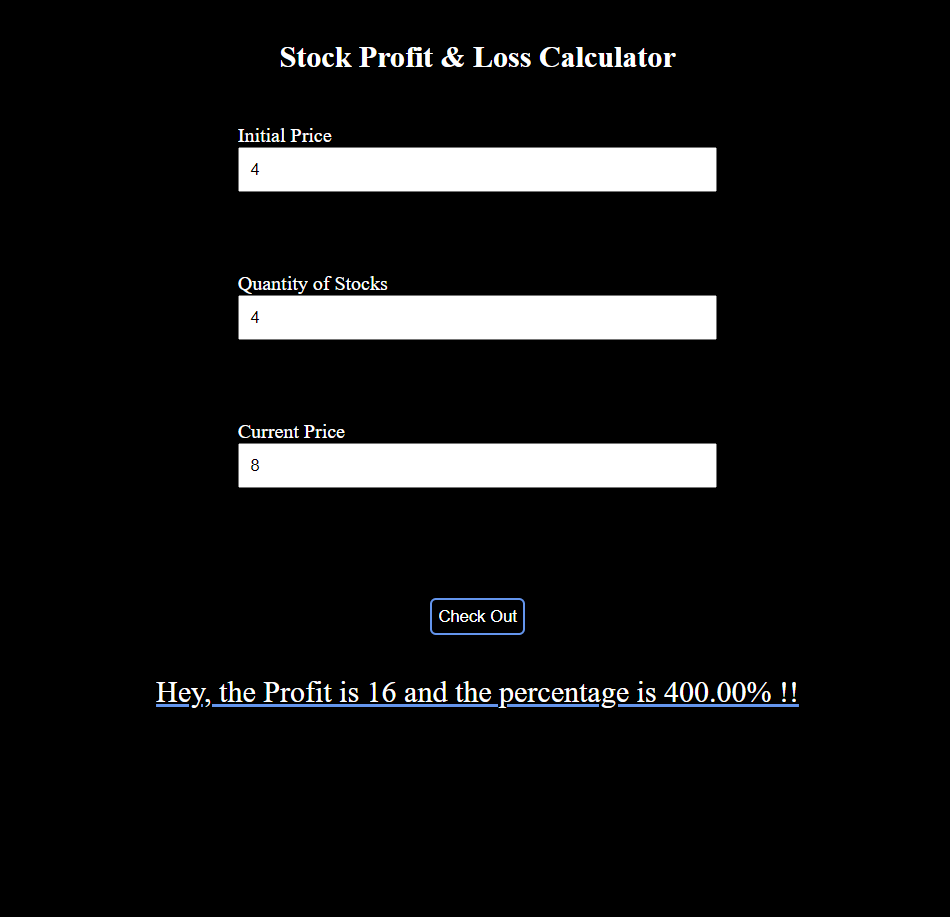
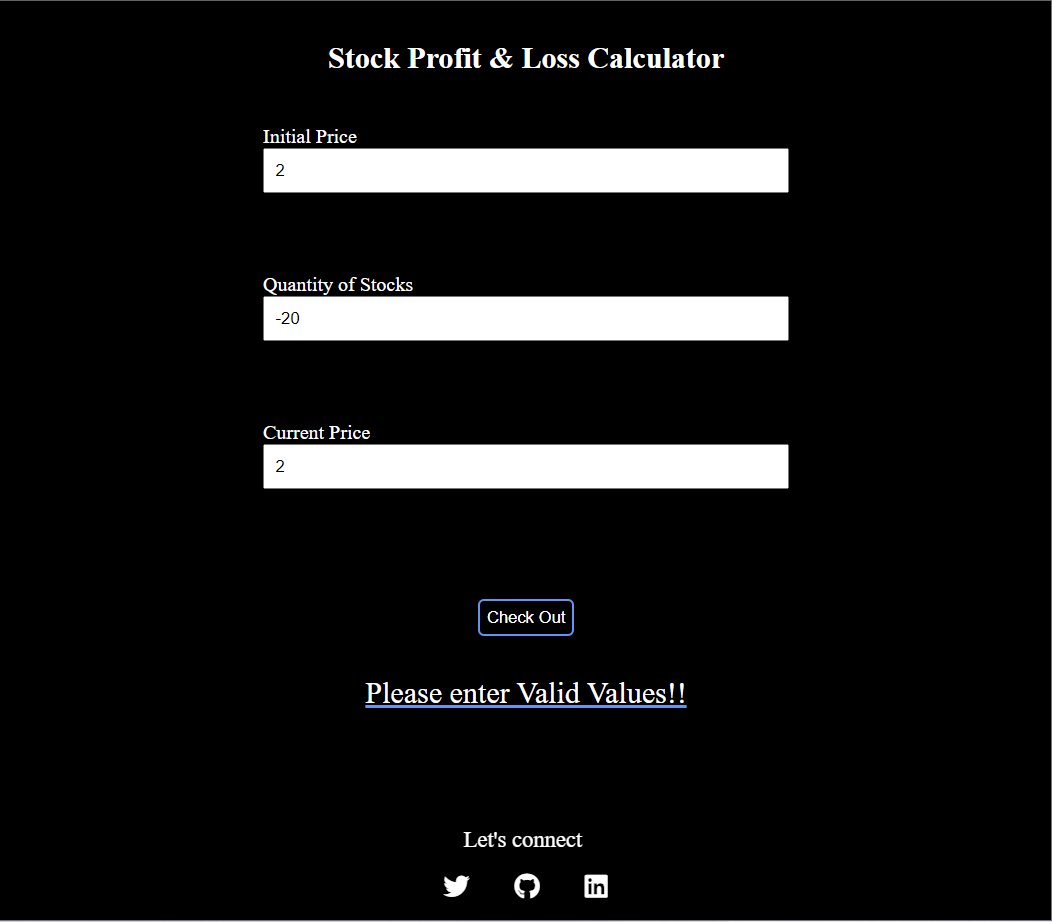
added footer

diff --git a/index.html b/index.html
@@ -4,6 +4,13 @@
     <meta charset="UTF-8" />
     <meta http-equiv="X-UA-Compatible" content="IE=edge" />
     <meta name="viewport" content="width=device-width, initial-scale=1.0" />
+    <link
+      rel="stylesheet"
+      href="https://cdnjs.cloudflare.com/ajax/libs/font-awesome/6.2.0/css/all.min.css"
+      integrity="sha512-xh6O/CkQoPOWDdYTDqeRdPCVd1SpvCA9XXcUnZS2FmJNp1coAFzvtCN9BmamE+4aHK8yyUHUSCcJHgXloTyT2A=="
+      crossorigin="anonymous"
+      referrerpolicy="no-referrer"
+    />
     <link rel="stylesheet" href="style.css" />
     <title>Profit or Loss</title>
   </head>
@@ -29,6 +36,28 @@
       </div>
       <button class="btn">Check Out</button>
       <div class="output"></div>
+      <footer class="footer">
+        <div class="footer-text">Let's connect</div>
+        <ul class="link-list">
+          <li>
+            <a href="https://twitter.com/Kaushal53362050" target="_blank"
+              ><i class="fa-brands fa-twitter"></i
+            ></a>
+          </li>
+          <li>
+            <a href="https://github.com/kaushal95" target="_blank"
+              ><i class="fa-brands fa-github"></i
+            ></a>
+          </li>
+          <li>
+            <a
+              href="https://www.linkedin.com/in/kaushal-kumar-019952170"
+              target="_blank"
+              ><i class="fa-brands fa-linkedin"></i
+            ></a>
+          </li>
+        </ul>
+      </footer>
     </div>
     <script src="/index.js" type="text/javascript"></script>
   </body>

diff --git a/style.css b/style.css
@@ -185,6 +185,50 @@ input {
 .celebrate {
     animation: mymove 2s linear 2;
 }
+/* footer */
+.footer {
+    position: fixed;
+    bottom: 0px;
+    left: 50%;
+    transform: translate(-50%);
+
+}
+
+footer .quiz-footer {
+    overflow: hidden;
+    margin: 0 auto;
+    background-color: var(--primary-clr);
+    color: white;
+    width: 100vw;
+    text-align: center;
+}
+
+footer .link-list {
+    text-align: center;
+    margin: 1rem 0;
+    list-style-type: none;
+    margin: 1rem auto;
+}
+
+footer .link-list li {
+    display: inline;
+    padding: 1rem;
+}
+
+footer .footer-text {
+    /* font-weight: bold; */
+    font-size: large;
+    margin-left: 2rem;
+}
+
+footer li a i {
+    color: white;
+    font-size: 1.3rem;
+}
+
+footer li a i:hover {
+    transform: scale(1.5);
+}
 
 @keyframes mymove {
     0% {

diff --git a/index.js b/index.js
@@ -22,7 +22,14 @@ btnElement.addEventListener("click", () => {
   const boughtAt = Number(boughtElement.value);
   const current = Number(currentElement.value);
   const quantity = Number(quantityElement.value);
-  if (boughtAt && current && quantity) {
+  if (
+    boughtAt &&
+    current &&
+    quantity &&
+    boughtAt > 0 &&
+    quantity > 0 &&
+    current > 0
+  ) {
     const { status, percentage, diffAmount } = calculate(
       boughtAt,
       current,
@@ -36,7 +43,7 @@ btnElement.addEventListener("click", () => {
           ).toFixed(2)}% !!`
         );
   } else {
-    showMessage("Please enter all Values!!");
+    showMessage("Please enter Valid Values!!");
   }
 });
 
